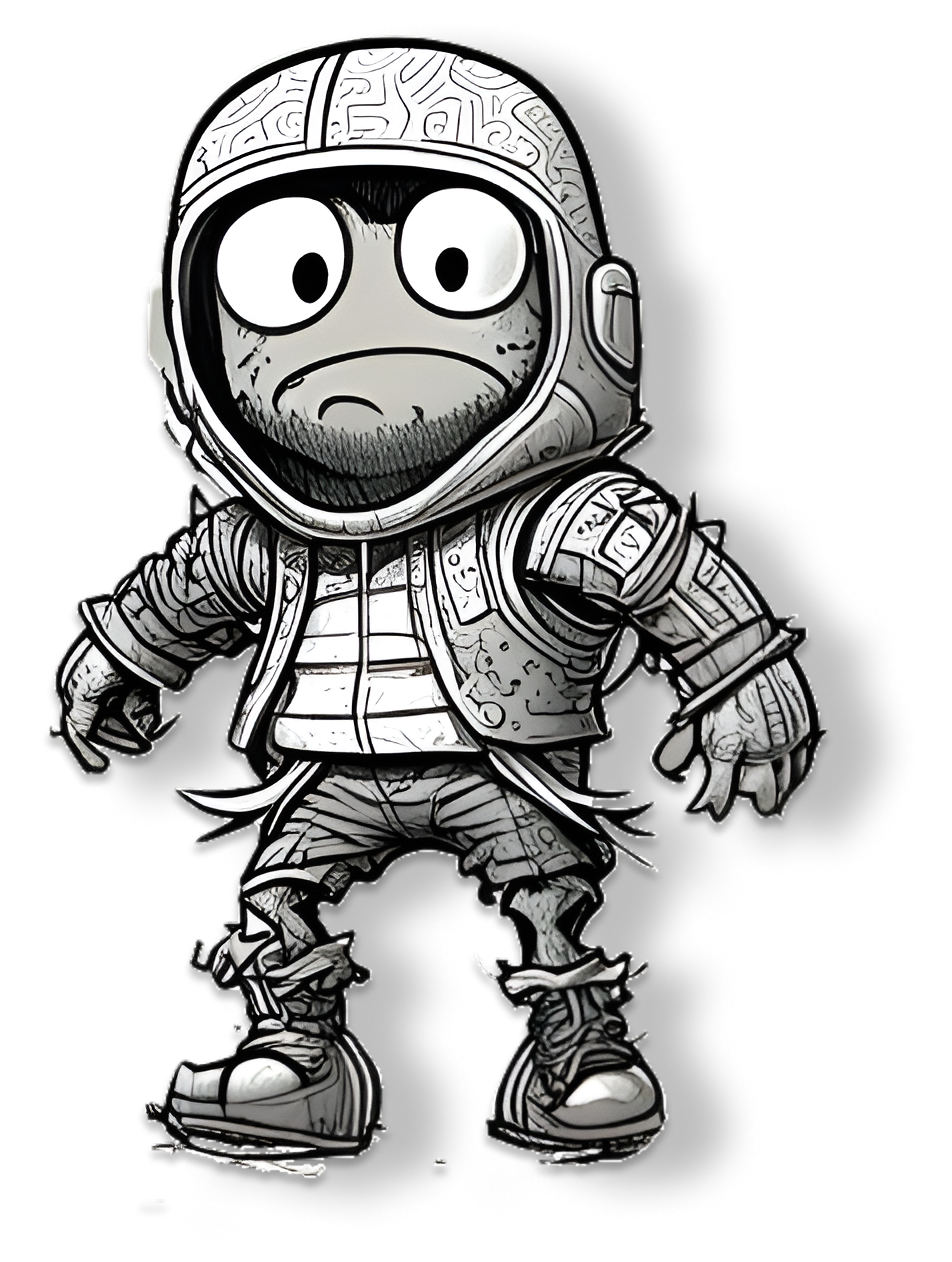
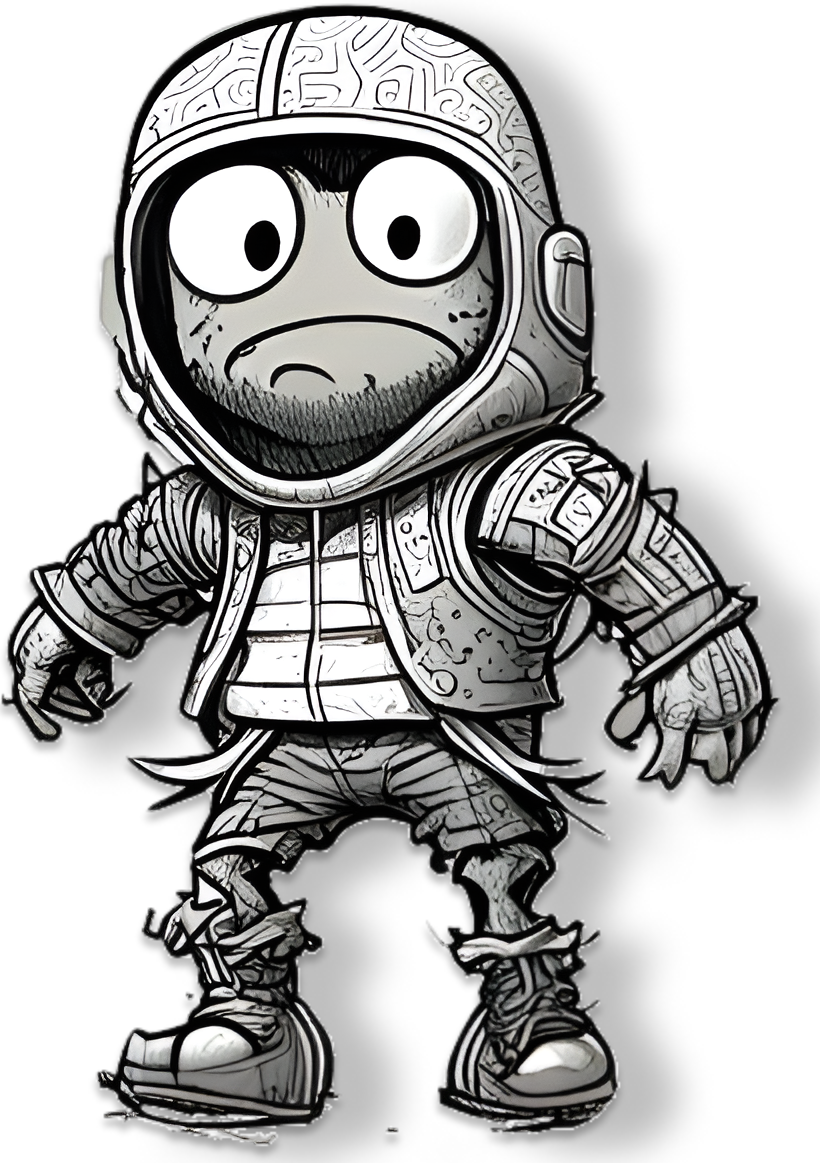
Made homePage responsive

diff --git a/style.css b/style.css
@@ -64,7 +64,7 @@ body{
     position: absolute;
     height: 90%;
     bottom: -10%;
-    left: -20%;
+    left: -10%;
 }
 
 #introImg2{
@@ -85,6 +85,37 @@ body{
 .floating3{
     animation: floating3 3s ease-in-out infinite;
 }
+
+#startGameButtons p{
+    font-size: 1.5rem;
+    margin: 1.5rem;
+}
+.heading1{
+    font-size: 4rem;
+}
+
+.heading2{
+    font-size: 2.5rem;
+}
+
+
+.button {
+    padding: 10px 20px;
+    font-size: 1.5rem;
+    color: #ffffff;
+    background-color: #565353;
+    border: none;
+    cursor: pointer;
+    border-radius: 0.25rem 1rem;
+    transition: background-color 0.3s ease-in-out, border-radius 0.3s ease-in-out, transform 0.3s ease-in-out;
+    margin: 1rem 0;
+}
+
+.button:hover {
+    transform: scale(1.2);
+    background: linear-gradient(45deg, #555, #747373);
+    border-radius: 1rem 0.25rem;
+} 
 
 @keyframes floating1 {
     0% {
@@ -121,34 +152,104 @@ body{
     }
 }
 
-
-#startGameButtons p{
-    font-size: 1.5rem;
-    margin: 1.5rem;
+@media (max-width: 1200px) {
+    #introImg1{
+        position: absolute;
+        height: 80%;
+        bottom: -10%;
+        left: -10%;
+    }
+    
+    #introImg2{
+        position: absolute;
+        height: 80%;
+        bottom: -10%;
+        right: -10%;
+    }
+    .button {
+        font-size: 1.1rem;
+    }
+    .heading1{
+        font-size: 4rem;
+    }
+    
+    .heading2{
+        font-size: 2rem;
+        width: 70%;
+    }
 }
-.heading1{
-    font-size: 4rem;
+
+@media (max-width: 1000px) {
+    #introImg1{
+        position: absolute;
+        height: 70%;
+        bottom: -10%;
+        left: -10%;
+    }
+    
+    #introImg2{
+        position: absolute;
+        height: 70%;
+        top: -10%;
+        right: -15%;
+    }
+    .button {
+        font-size: 1.5rem;
+    }
+    .heading1{
+        font-size: 3rem;
+    }
+    #startGameDiv{
+        position: absolute;
+        top: 3rem;
+        right: 27.5%;
+    }
+    .heading2{
+        font-size: 1.5drem;
+        width: 70%;
+    }
 }
 
-.heading2{
-    font-size: 2.5rem;
+@media (max-width: 800px) {
+    #emptySpace{
+        width: 0vw;
+    }
+
+    #introImg1{
+        position: absolute;
+        height: 47.5vw;
+        bottom: -10%;
+        left: -10%;
+    }
+    
+    #introImg2{
+        position: absolute;
+        height: 47.5vw;
+        top: -10%;
+        right: -10%;
+    }
+    .button {
+        font-size: 1rem;
+        width: fit-content;
+        text-wrap: nowrap;
+    }
+    .heading1{
+        font-size: 2rem;
+    }
+    #startGameDiv{
+        position: absolute;
+        top: 11rem;
+        height: 50%;
+        width: 50%;
+        right: 27.5%;
+    }
+    .heading2{
+        font-size: 1.25rem;
+    }
 }
 
-
-.button {
-    padding: 10px 20px;
-    font-size: 1.5rem;
-    color: #ffffff;
-    background-color: #565353;
-    border: none;
-    cursor: pointer;
-    border-radius: 0.25rem 1rem;
-    transition: background-color 0.3s ease-in-out, border-radius 0.3s ease-in-out, transform 0.3s ease-in-out;
-    margin: 1rem 0;
+@media (max-width: 400px){
+    .button{
+        font-size: 0.75rem;
+    }
 }
-
-.button:hover {
-    transform: scale(1.2);
-    background-color: rgba(0, 0, 0, 0.669);
-    border-radius: 1rem 0.25rem;
-} 
